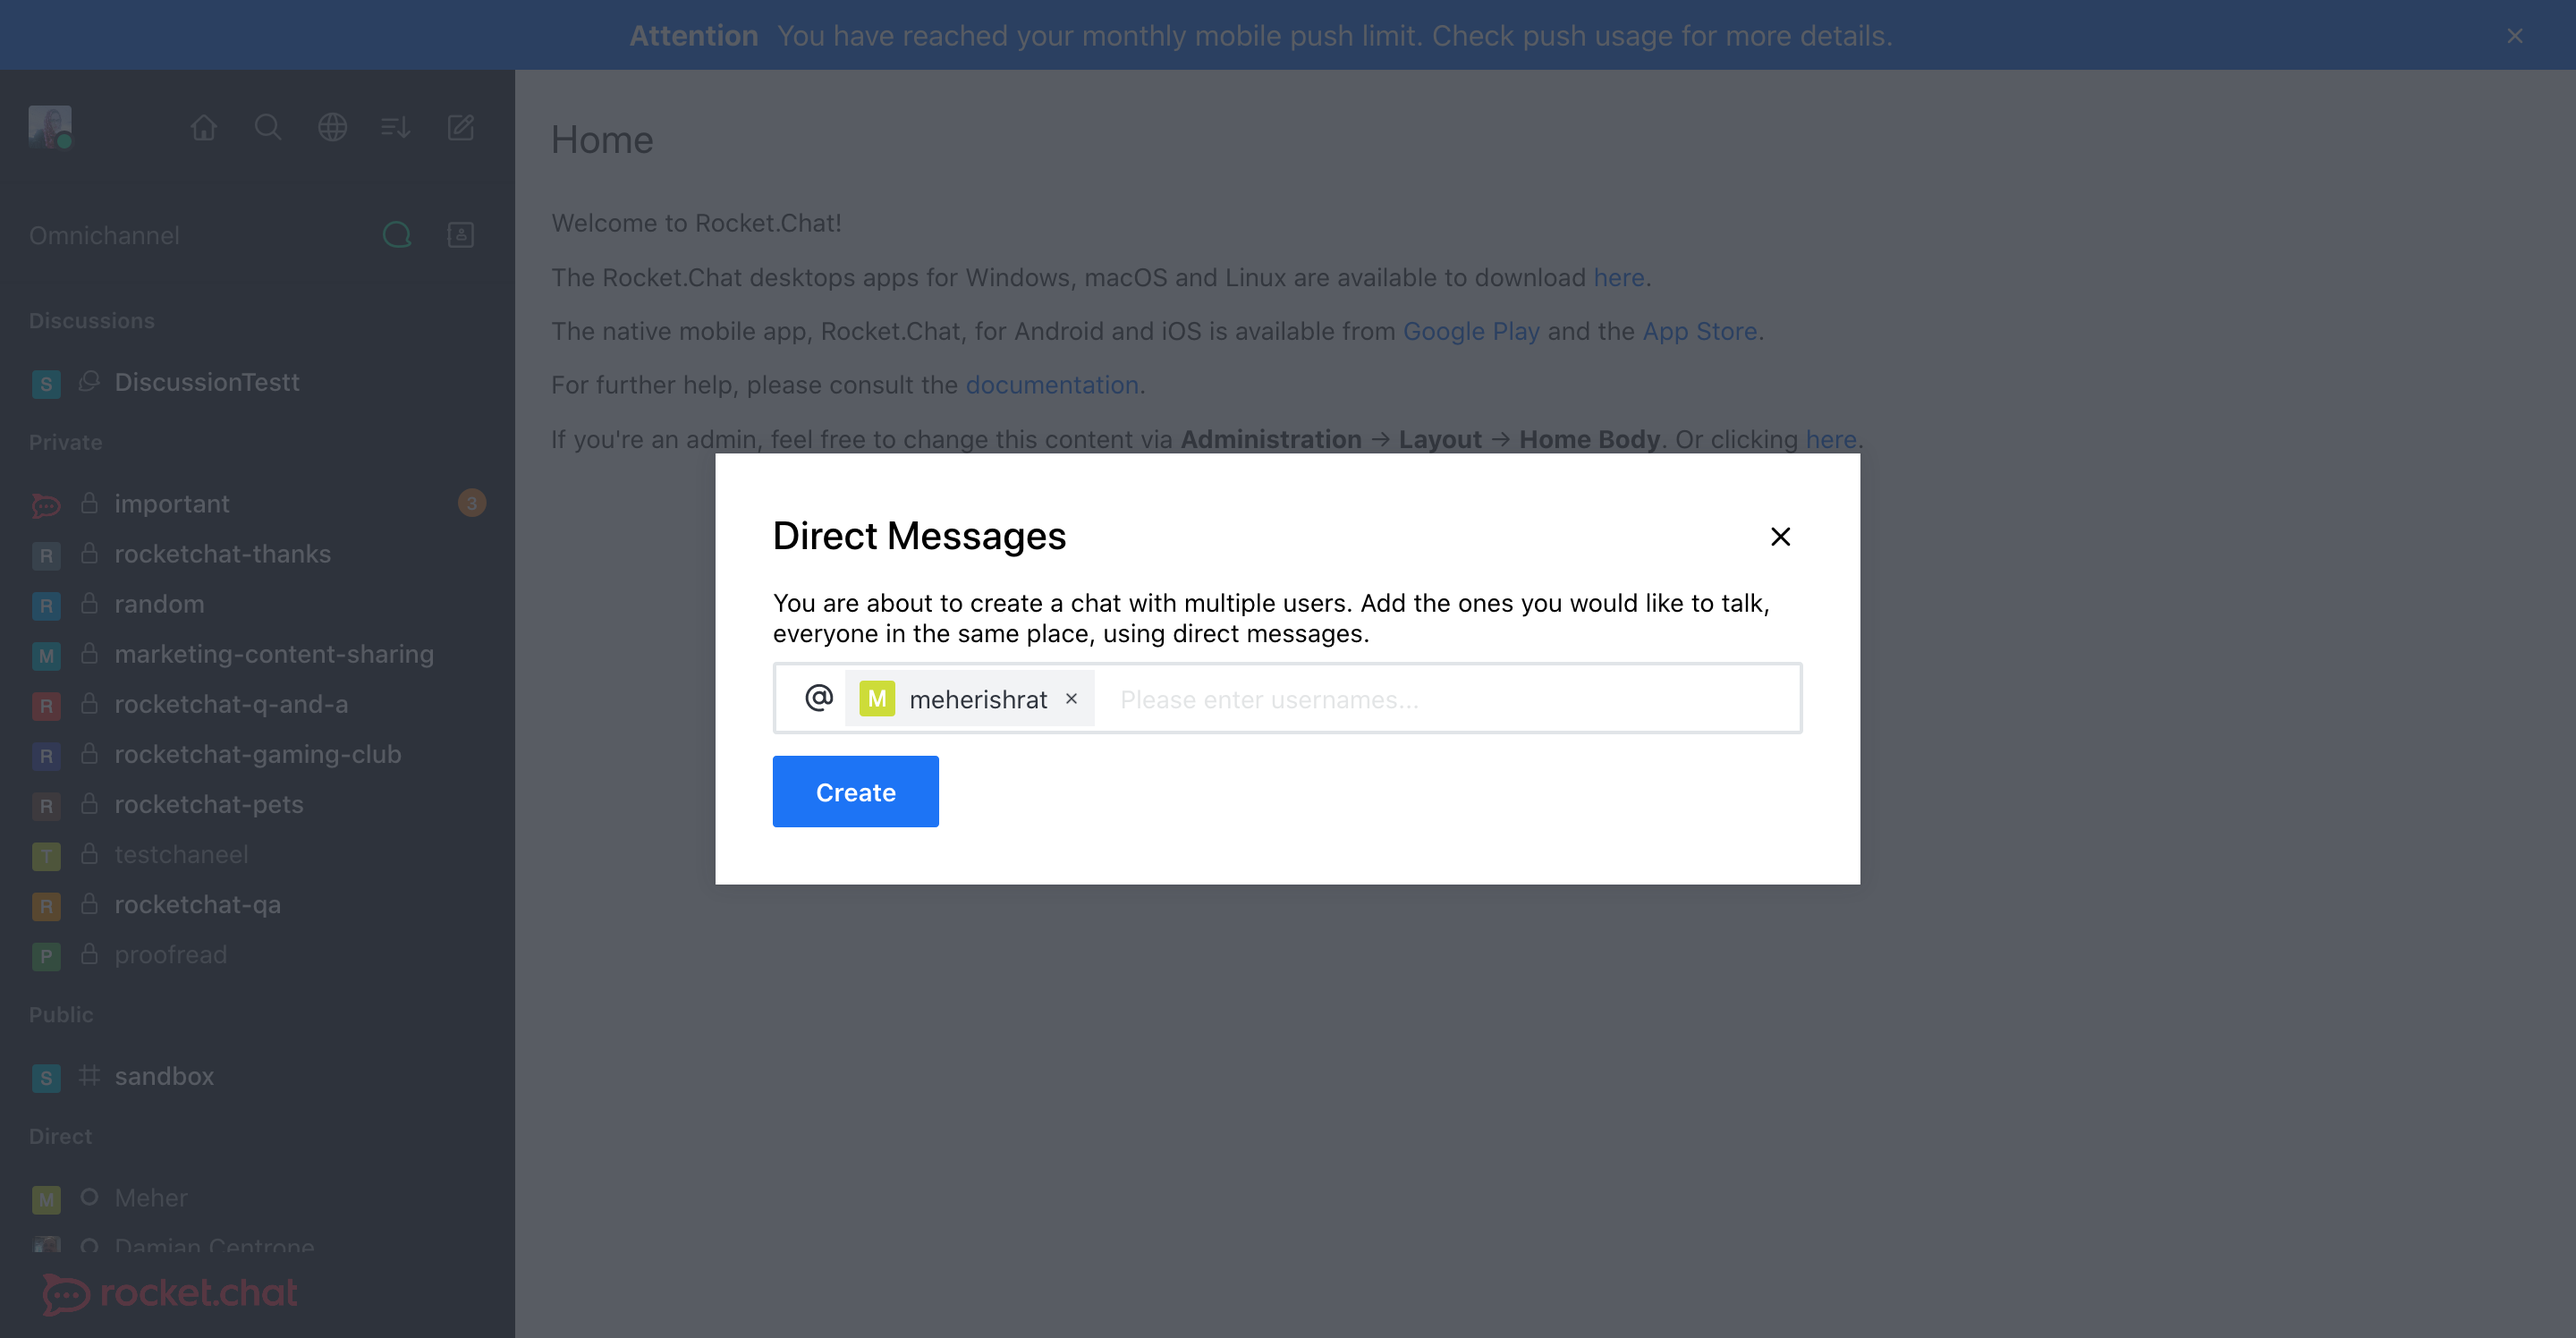
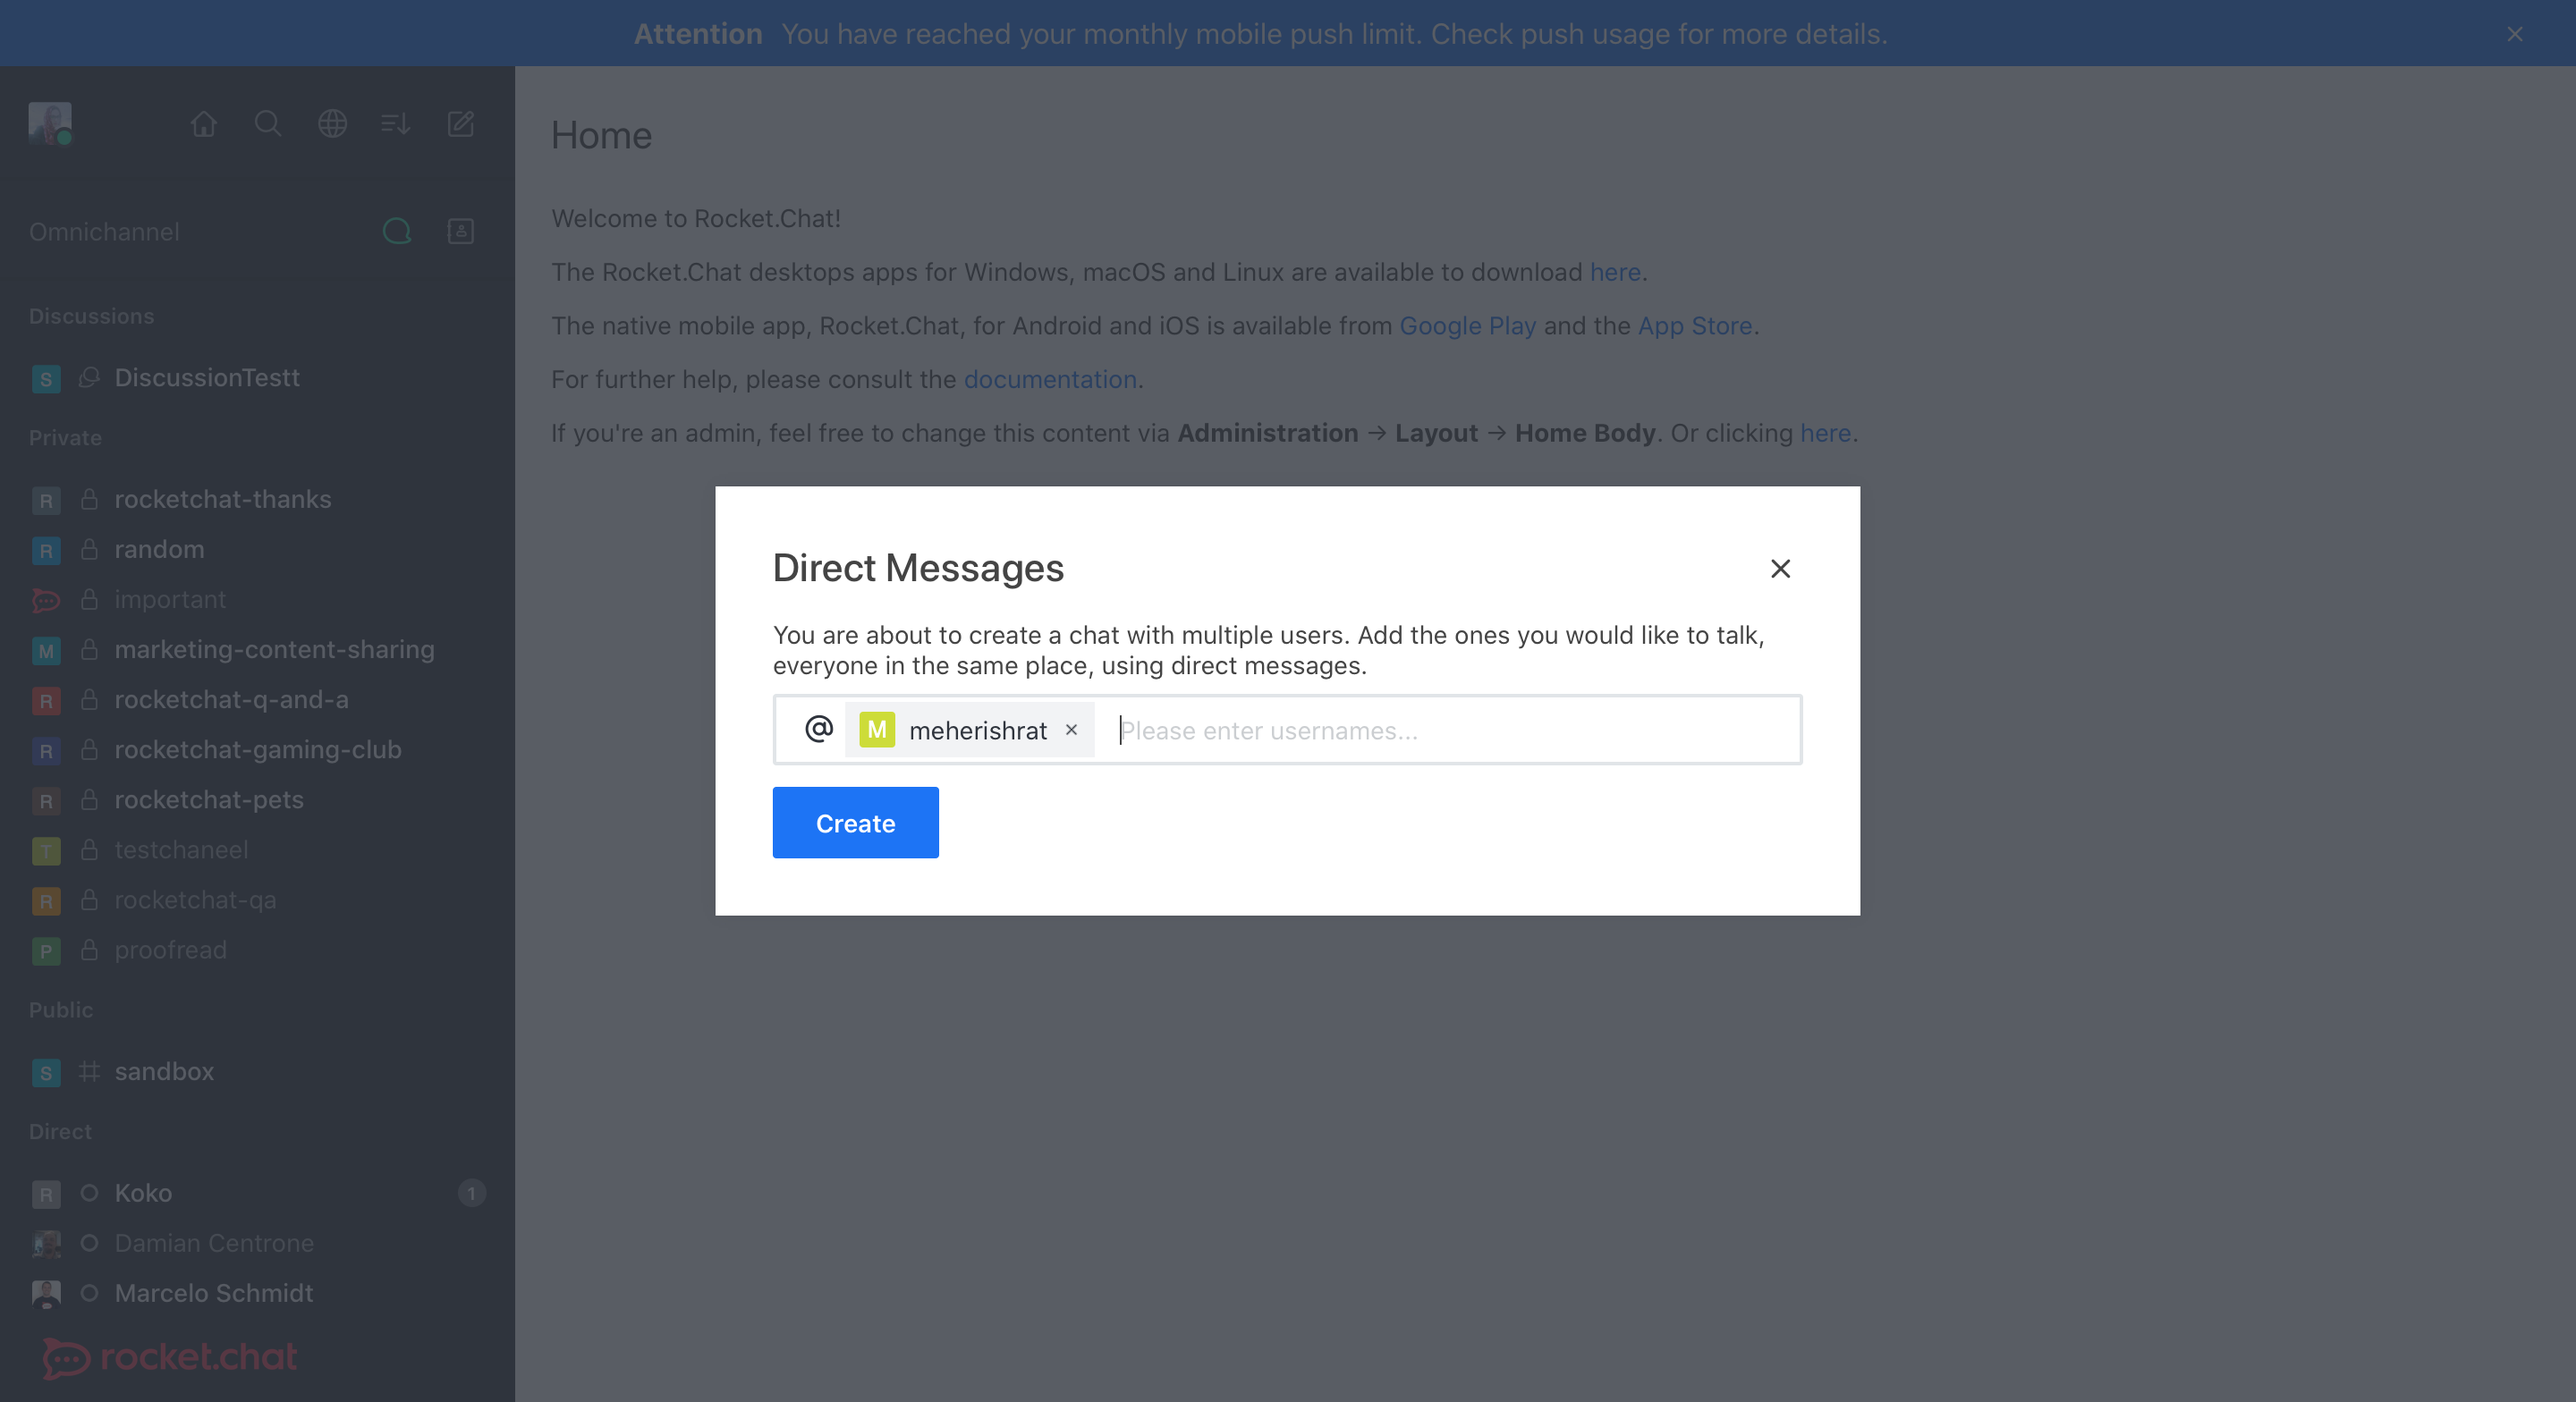
added screenshot for login

diff --git a/DM_MoreOptions/Hide_Show.py b/DM_MoreOptions/Hide_Show.py
@@ -4,7 +4,7 @@ import sys, os
 sys.path.append(os.path.abspath('../AutomationModule'))
 from automation_init import AutomationInit
 automation = AutomationInit()
-automation.chrome()
+automation.firefox()
 browser = automation.getBrowser()
 automation.login()
 browser.implicitly_wait(10)

diff --git a/Create/DirectMessage.py b/Create/DirectMessage.py
@@ -3,7 +3,7 @@ import sys, os
 sys.path.append(os.path.abspath('../AutomationModule'))
 from automation_init import AutomationInit
 automation = AutomationInit()
-automation.firefox()
+automation.safari()
 #automation.chrome()
 #automation.safari()
 browser = automation.getBrowser()

diff --git a/Login/WithRocketChat.py b/Login/WithRocketChat.py
@@ -7,6 +7,7 @@ automation.chrome()
 #automation.safari()
 browser = automation.getBrowser()
 automation.login()
+browser.save_screenshot("/Users/ishratmanzoor/Desktop/QA.Automation/Screenshots/Login.png")
 browser.implicitly_wait(10)
 
 automation.delay()
